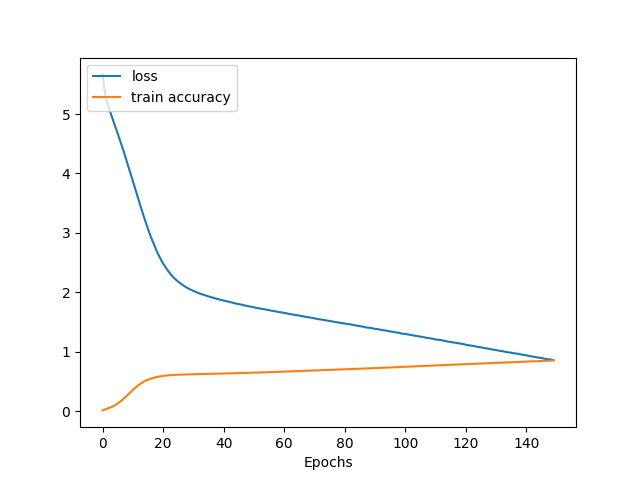
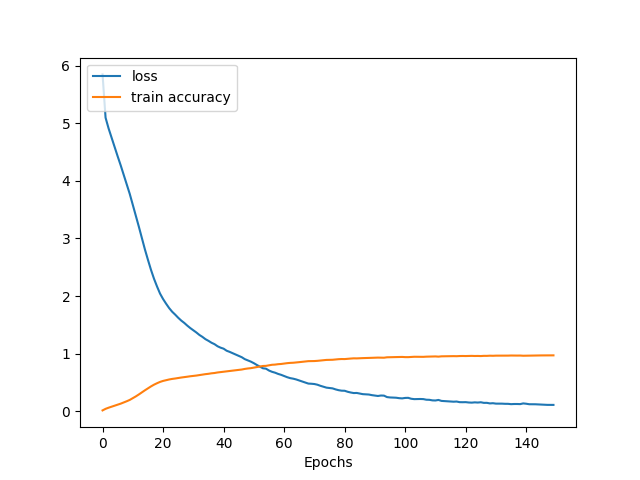
optimized training

diff --git a/deep_learning/train.py b/deep_learning/train.py
@@ -8,7 +8,7 @@ from util import *
 def train(model, images, labels, classes):
   model.train()
   loss_function = nn.CrossEntropyLoss()
-  optim = torch.optim.Adam(model.parameters(), lr=0.00001)
+  optim = torch.optim.Adam(model.parameters(), lr=0.0001)
 
   losses, accuracies = [], []
   BS = 64
@@ -40,6 +40,7 @@ def train(model, images, labels, classes):
       t.set_description("loss %.2f accuracy %.2f"%(loss, accuracy))
 
     print("Epoch average loss: %.2f"%(np.array(epoch_losses).mean()))
+    print("Epoch average accuracy: %.2f"%(np.array(epoch_acc).mean()))
     losses.append(np.array(epoch_losses).mean())
     accuracies.append(np.array(epoch_acc).mean())
 
